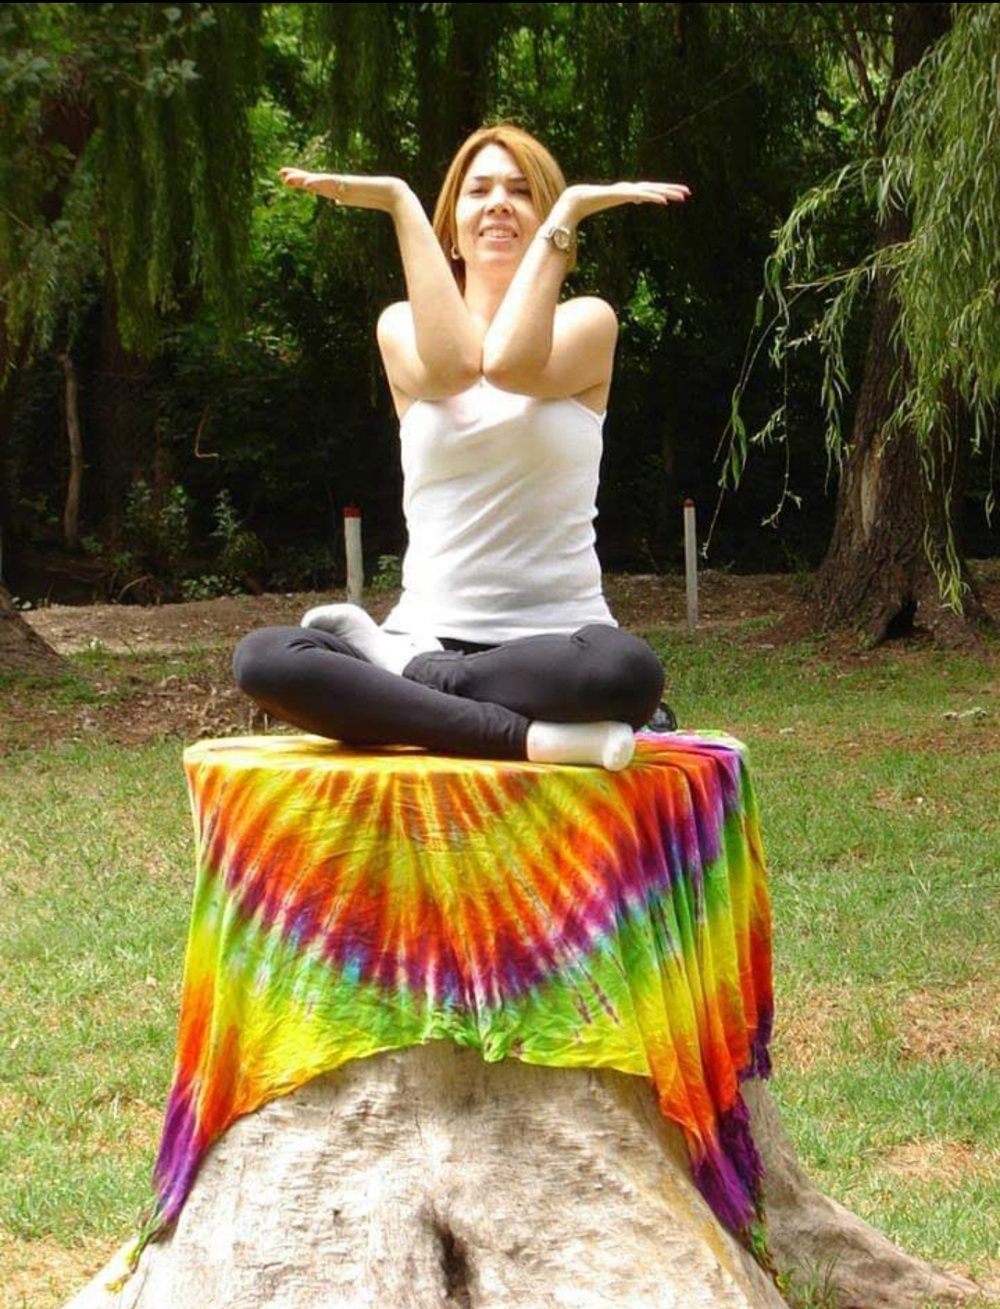
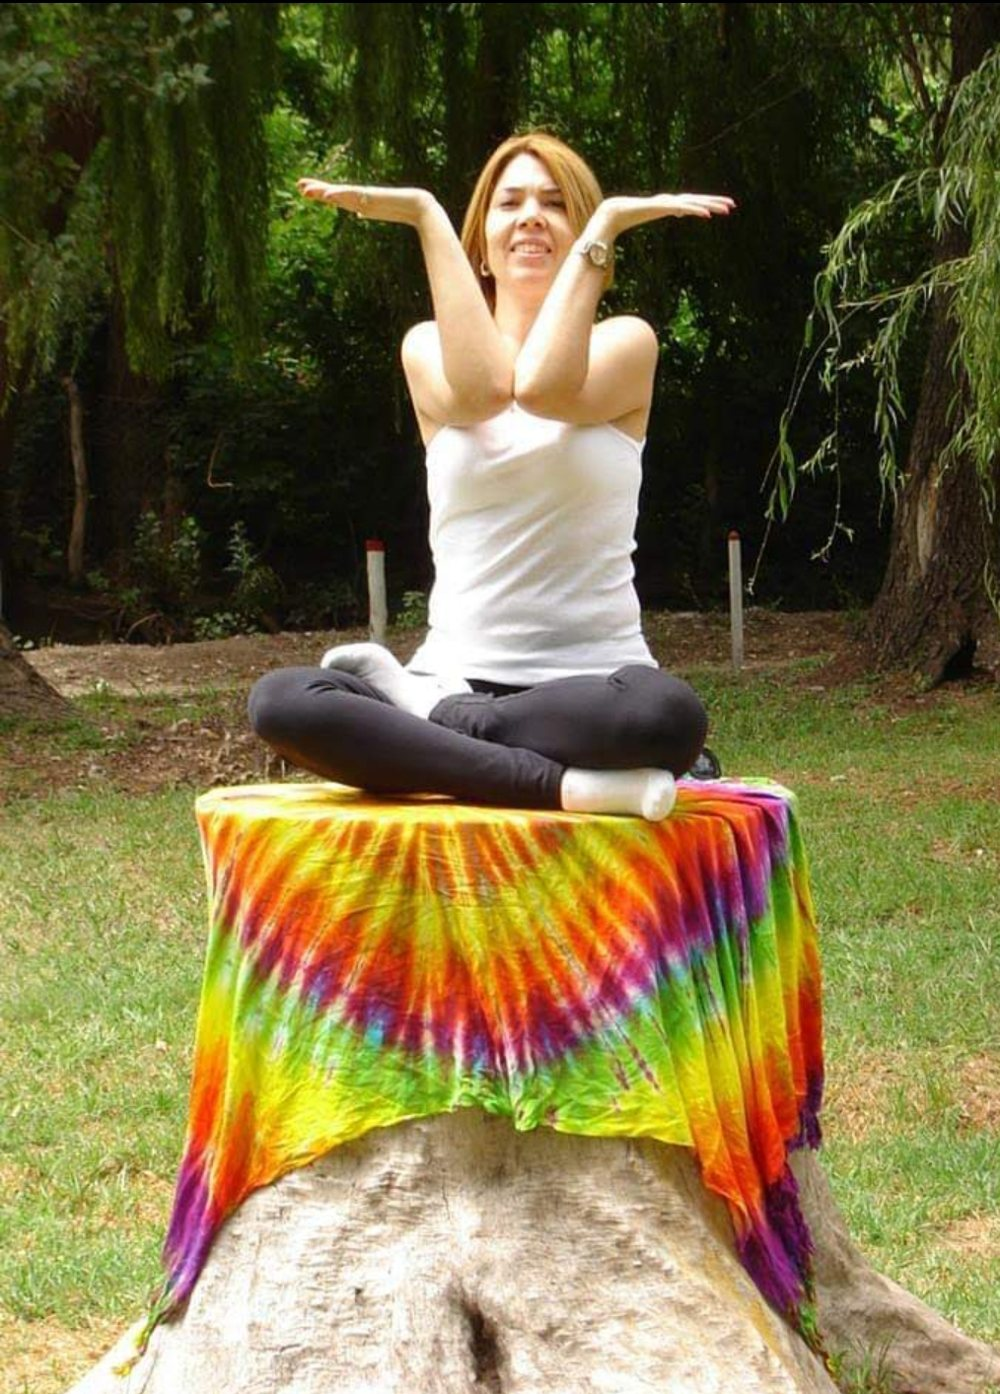
Foto de portada entera y centrada; gift card de nuevo en violeta

diff --git a/styles.css b/styles.css
@@ -66,8 +66,8 @@ header{position:sticky;top:0;z-index:50;background:rgba(250,247,242,.94);backdro
 .portada .texto p{font-size:1.08rem;color:var(--gris);max-width:540px}
 .portada .texto p:first-of-type{font-family:var(--serif);font-size:clamp(1.3rem,2.2vw,1.55rem);color:var(--tinta);line-height:1.5;margin-top:1.6rem}
 .acciones{display:flex;flex-wrap:wrap;gap:14px;margin-top:2.4rem}
-.portada-foto{position:relative}
-.portada-foto img{width:100%;aspect-ratio:4/5;object-fit:cover;object-position:50% 35%;border-radius:240px 240px 0 0}
+.portada-foto{position:relative;max-width:440px;width:100%;justify-self:center}
+.portada-foto img{width:100%;height:auto;border-radius:240px 240px 0 0}
 .portada-foto::before{content:"";position:absolute;inset:-18px 18px 18px -18px;border:1px solid var(--dorado);border-radius:240px 240px 0 0;z-index:-1}
 .datos{display:flex;flex-wrap:wrap;gap:clamp(24px,4vw,48px);margin-top:3rem;padding-top:2rem;border-top:1px solid var(--linea)}
 .dato b{display:block;font-family:var(--serif);font-weight:500;font-size:2.2rem;color:var(--ciruela-osc);line-height:1}
@@ -124,10 +124,10 @@ header{position:sticky;top:0;z-index:50;background:rgba(250,247,242,.94);backdro
 /* Gift card */
 .regalo{background:var(--arena)}
 .regalo-grid{display:grid;grid-template-columns:1fr 1fr;gap:clamp(40px,6vw,80px);align-items:center}
-.tarjeta{aspect-ratio:1.6;max-width:440px;width:100%;justify-self:center;background:var(--blanco);color:var(--ciruela-osc);padding:32px;display:flex;flex-direction:column;justify-content:space-between;outline:1px solid var(--dorado);outline-offset:-12px;box-shadow:0 24px 50px -28px rgba(45,31,56,.35)}
-.tarjeta .logo-chico{width:180px}
+.tarjeta{aspect-ratio:1.6;max-width:440px;width:100%;justify-self:center;background:var(--ciruela-osc);color:#fff;padding:32px;display:flex;flex-direction:column;justify-content:space-between;align-items:flex-start;outline:1px solid var(--dorado);outline-offset:-12px}
+.tarjeta .logo-chico{width:170px;background:var(--marfil);padding:8px 12px;box-sizing:content-box}
 .tarjeta em{font-family:var(--serif);font-size:1.7rem}
-.tarjeta small.tipo{font-size:.66rem;letter-spacing:.3em;text-transform:uppercase;color:var(--dorado);display:block;margin-bottom:.3rem}
+.tarjeta small.tipo{font-size:.66rem;letter-spacing:.3em;text-transform:uppercase;color:#d7bd8f;display:block;margin-bottom:.3rem}
 .regalo p{color:var(--gris)}
 .regalo .btn{margin-top:2rem}
 @media (max-width:860px){.regalo-grid{grid-template-columns:1fr}}

diff --git a/index.html b/index.html
@@ -57,7 +57,7 @@
       </div>
     </div>
     <div class="portada-foto">
-      <img src="img/portada.jpg" alt="Práctica de yoga al aire libre en Creciendo" width="1000" height="1309">
+      <img src="img/portada.jpg" alt="Práctica de yoga al aire libre en Creciendo" width="1000" height="1394">
     </div>
   </div>
 </section>
